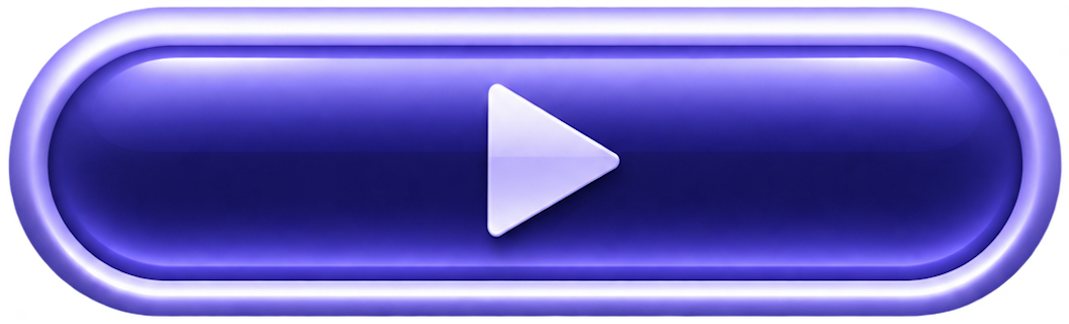
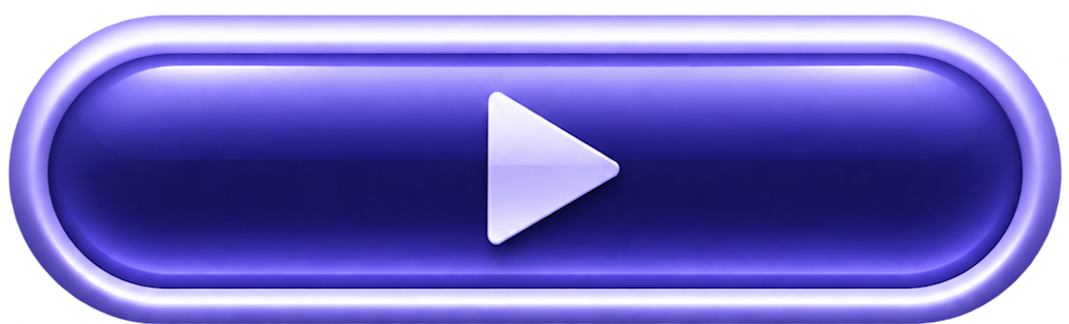
button structure sussed

diff --git a/lib/main.dart b/lib/main.dart
@@ -102,7 +102,36 @@ class _RadioScreenState extends State<RadioScreen> {
   // Play button interaction states.
   bool isHovered = false;
   bool isPressed = false;
+  bool eqIsHovered = false;
+bool eqIsPressed = false;
+bool xIsHovered = false;
+bool xIsPressed = false;
+bool isMinHovered = false;
+bool isMinPressed = false;
 
+String get minButtonImage {
+  if (isMinPressed) {
+    return 'assets/min_pressed.png';
+  }
+
+  if (isMinHovered) {
+    return 'assets/min_hover.png';
+  }
+
+  return 'assets/min.png';
+}
+// Determine which close button image should be displayed.
+String get xButtonImage {
+  if (xIsPressed) {
+    return 'assets/xbut_pressed.png';
+  }
+
+  if (xIsHovered) {
+    return 'assets/xbut_hover.png';
+  }
+
+  return 'assets/xbut.png';
+}
   // Determine which image should currently be displayed.
   String get playButtonImage {
     if (isPressed) {
@@ -116,6 +145,18 @@ class _RadioScreenState extends State<RadioScreen> {
     return 'assets/playbut.png';
   }
 
+  String get eqButtonImage {
+  if (eqIsPressed) {
+    return 'assets/eqbut_pressed.png';
+  }
+
+  if (eqIsHovered) {
+    return 'assets/eqbut_hover.png';
+  }
+
+  return 'assets/eqbut.png';
+}
+
   @override
   Widget build(BuildContext context) {
     return Scaffold(
@@ -128,7 +169,7 @@ class _RadioScreenState extends State<RadioScreen> {
           // Scale interactive elements with window dimensions.
           final songFontSize = h * 0.14;
           final playButtonWidth = w * 0.24;
-
+          final minButtonWidth = w * 0.053;
           return DragToResizeArea(
             resizeEdgeSize: 10,
             child: Stack(
@@ -137,7 +178,7 @@ class _RadioScreenState extends State<RadioScreen> {
                 Positioned.fill(
                   child: DragToMoveArea(
                     child: Image.asset(
-                      'assets/chosen2.png',
+                      'assets/player.png',
                       fit: BoxFit.fill,
                       width: double.infinity,
                       height: double.infinity,
@@ -172,7 +213,201 @@ class _RadioScreenState extends State<RadioScreen> {
                   ),
                 ),
 
+                // Close window button with hover and pressed states.
+Positioned(
+  right: w * 0.030,
+  top: h * 0.05,
+  child: MouseRegion(
+    cursor: SystemMouseCursors.click,
+
+    // Mouse enters button.
+    onEnter: (_) {
+      setState(() {
+        xIsHovered = true;
+      });
+    },
+
+    // Mouse leaves button.
+    onExit: (_) {
+      setState(() {
+        xIsHovered = false;
+        xIsPressed = false;
+      });
+    },
+
+    child: GestureDetector(
+      // Mouse button is pressed.
+      onTapDown: (_) {
+        setState(() {
+          xIsPressed = true;
+        });
+      },
+
+      // Mouse button is released.
+      onTapUp: (_) {
+        setState(() {
+          xIsPressed = false;
+        });
+      },
+
+      // Press is cancelled.
+      onTapCancel: () {
+        setState(() {
+          xIsPressed = false;
+        });
+      },
+
+      // Close application.
+      onTap: () async {
+        await windowManager.close();
+      },
+
+      // Smooth image transitions.
+      child: AnimatedSwitcher(
+        duration: const Duration(milliseconds: 120),
+        switchInCurve: Curves.easeOut,
+        switchOutCurve: Curves.easeIn,
+
+        child: Image.asset(
+          xButtonImage,
+          key: ValueKey(xButtonImage),
+          height: h * 0.12,
+          fit: BoxFit.contain,
+        ),
+      ),
+    ),
+  ),
+),
+
+
+// Minimise window button.
+Positioned(
+  left: w * 0.821,
+  top: h * 0.054,
+  child: MouseRegion(
+    cursor: SystemMouseCursors.click,
+
+    onEnter: (_) {
+      setState(() {
+        isMinHovered = true;
+      });
+    },
+
+    onExit: (_) {
+      setState(() {
+        isMinHovered = false;
+        isMinPressed = false;
+      });
+    },
+
+    child: GestureDetector(
+      onTapDown: (_) {
+        setState(() {
+          isMinPressed = true;
+        });
+      },
+
+      onTapUp: (_) {
+        setState(() {
+          isMinPressed = false;
+        });
+      },
+
+      onTapCancel: () {
+        setState(() {
+          isMinPressed = false;
+        });
+      },
+
+      // Minimise the application window.
+      onTap: () async {
+        await windowManager.minimize();
+      },
+
+      child: AnimatedSwitcher(
+        duration: const Duration(milliseconds: 120),
+        switchInCurve: Curves.easeOut,
+        switchOutCurve: Curves.easeIn,
+
+        child: Image.asset(
+          minButtonImage,
+          key: ValueKey(minButtonImage),
+          width: minButtonWidth,
+          fit: BoxFit.contain,
+        ),
+      ),
+    ),
+  ),
+),
+                // Equaliser button with hover and pressed states.
+Positioned(
+  left: w * 0.027,
+  top: h * 0.71,
+  child: MouseRegion(
+    cursor: SystemMouseCursors.click,
+
+    // Mouse enters button.
+    onEnter: (_) {
+      setState(() {
+        eqIsHovered = true;
+      });
+    },
+
+    // Mouse leaves button.
+    onExit: (_) {
+      setState(() {
+        eqIsHovered = false;
+        eqIsPressed = false;
+      });
+    },
+
+    child: GestureDetector(
+      // Mouse button is pressed.
+      onTapDown: (_) {
+        setState(() {
+          eqIsPressed = true;
+        });
+      },
+
+      // Mouse button is released.
+      onTapUp: (_) {
+        setState(() {
+          eqIsPressed = false;
+        });
+      },
+
+      // Press is cancelled.
+      onTapCancel: () {
+        setState(() {
+          eqIsPressed = false;
+        });
+      },
+
+      // Button clicked.
+      onTap: () {
+        debugPrint('EQUALISER BUTTON PRESSED');
+      },
+
+      // Smoothly transition between button images.
+      child: AnimatedSwitcher(
+        duration: const Duration(milliseconds: 120),
+        switchInCurve: Curves.easeOut,
+        switchOutCurve: Curves.easeIn,
+
+        child: Image.asset(
+          eqButtonImage,
+          key: ValueKey(eqButtonImage),
+          width: w * 0.08,
+          fit: BoxFit.contain,
+        ),
+      ),
+    ),
+  ),
+),
+                
                 // Play button with hover and pressed states.
+                
+                
                 Positioned(
                   left: w * 0.12,
                   top: h * 0.71,
@@ -237,6 +472,9 @@ class _RadioScreenState extends State<RadioScreen> {
                     ),
                   ),
                 ),
+
+
+                
               ],
             ),
           );
